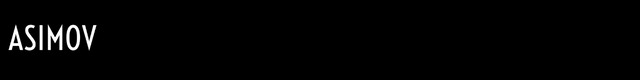
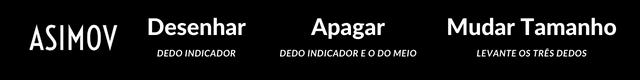
header and finger recog added to hand_drawing/rimtação reliquiada 2

diff --git a/hand_drawing.py b/hand_drawing.py
@@ -43,17 +43,23 @@ cam_height = int(capture.get(cv2.CAP_PROP_FRAME_HEIGHT))
 # hand_tracking class   
 Vanze = htm.VanzeDetector(min_detec_confidence=0.85)    # minimizar erros
 
+# Definir o tamanho inicial do pincel
+thickness = 5
+
 # loop para colar o header e pintar a tela
 while True:
     '''
     1. import image
     2. achar os landmarks - usando o module
     3. Checar quais dedos estão levantados - para selecionar os necessários
-    4. If selection mode - dois dedos acima
+    4. If eraser mode - dois dedos acima
         - Select, not draw
     5. Drawing mode - dedo principal acima
         - Free drawing
+    6. Selecting size mode - três dedos pra cima
     '''
+    # reset hands_on feature
+    hands_on = False
     # 1. import image
     _, img = capture.read()
     img = cv2.flip(img, 1)  # invertendo a imagem para que o desenho seja natural, intuitivo
@@ -63,16 +69,41 @@ while True:
     landmark_list = Vanze.find_position(img, draw_hands=False)
 
     if len(landmark_list) != 0:
+        hands_on = True
         #     print(landmark_list)
-        x1, y1 = landmark_list[8][1:]       # dedo principal - acessar imagem nos assets
+        x1, y1 = landmark_list[8][1:]       # dedo indicador - acessar imagem nos assets
         x2, y2 = landmark_list[12][1:]      # dedo do meio
+        x3, y3 = landmark_list[16][1:]      # dedo anelar
 
     # 3. Checar quais dedos estão levantados - para selecionar os necessários
         fingers = Vanze.fingers_up()
-        print(fingers)
-        
-    # 4. If selection mode
+        # print(fingers)
+
     # 5. Drawing mode
+        if fingers[1] and not (fingers[2] or fingers[3]):
+            print('drawing mode')
+            img = Vanze.draw_in_position(img, [x1], [y1], (0, 0, 255), thickness)
+            cv2.circle(img, (x1, y1), thickness, (0, 255, 0), -1)
+            header = overlay_images[1]
+
+    # 4. Eraser mode
+        elif fingers[1] and fingers[2] and not fingers[3]:
+            print('Eraser mode')
+            img = Vanze.draw_in_position(img, [x1, x2], [y1, y2], (0, 0, 255), thickness)
+            header = overlay_images[2]
+    
+    # 6. Selecting size mode
+        elif fingers[1] and fingers[2] and fingers[3]:
+            print('sizing mode')
+            img = Vanze.draw_in_position(img, [x1, x2, x3], [y1, y2, y3], (255, 0, 0), thickness)
+            cv2.circle(img, (x1, y1), thickness, (255, 0, 0), -1)
+            header = overlay_images[3]
+            
+    # If none of those commands, return to main header
+        else: hands_on = False
+
+    if not hands_on:    
+        header = overlay_images[0]
 
     # colando o header correto
     img[0:header.shape[0], 0:cam_width] = header

diff --git a/hand_tracking_module.py b/hand_tracking_module.py
@@ -97,7 +97,7 @@ class VanzeDetector():
         fingers = []
 
         # dedão - analisado diferente por que o dedão se comporta de maneira diferente. Não desce no eixo y que nem os outros dedos
-        if self.required_landmark_list[self.tip_ids[0]][1] > self.required_landmark_list[self.tip_ids[0] - 1][1]: fingers.append(1)
+        if self.required_landmark_list[self.tip_ids[0]][1] < self.required_landmark_list[self.tip_ids[0] - 1][1]: fingers.append(1)
         else: fingers.append(0)
 
         # Para os outros 4 dedos
